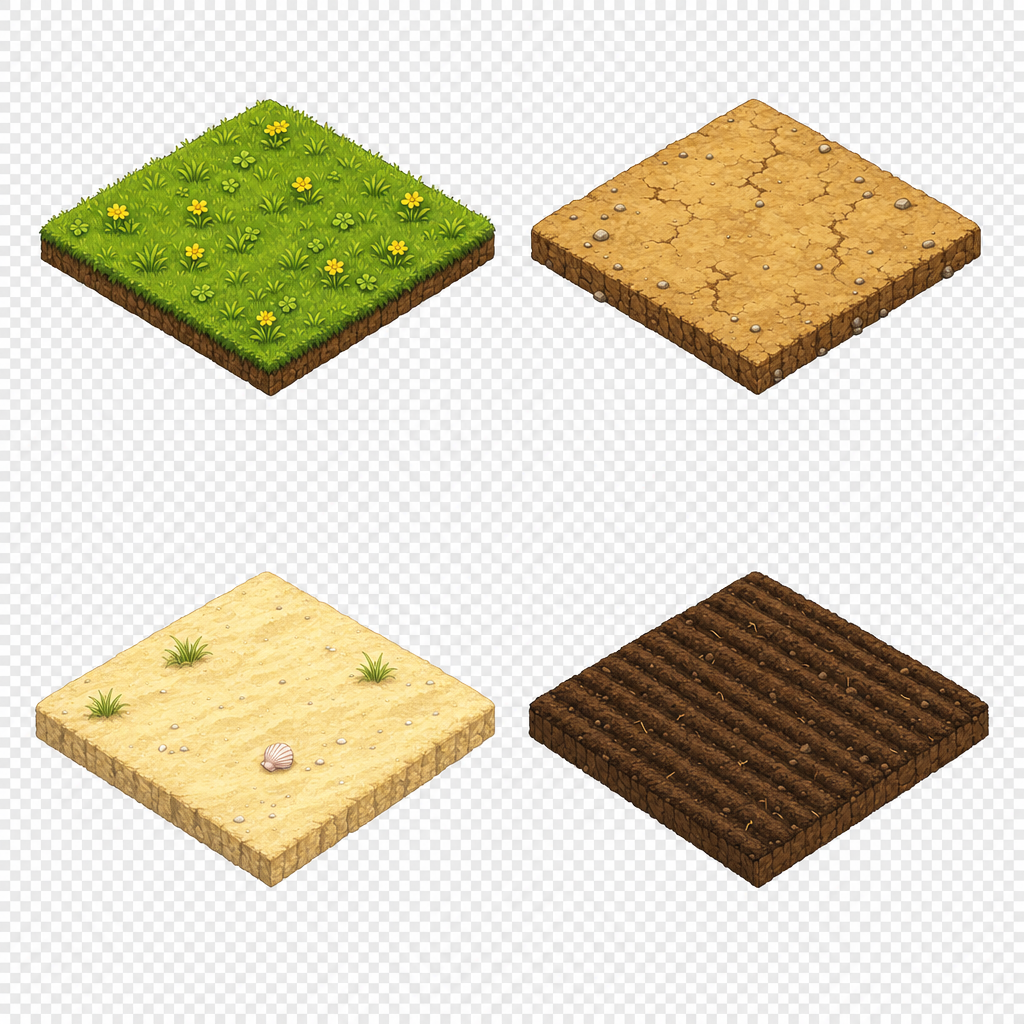
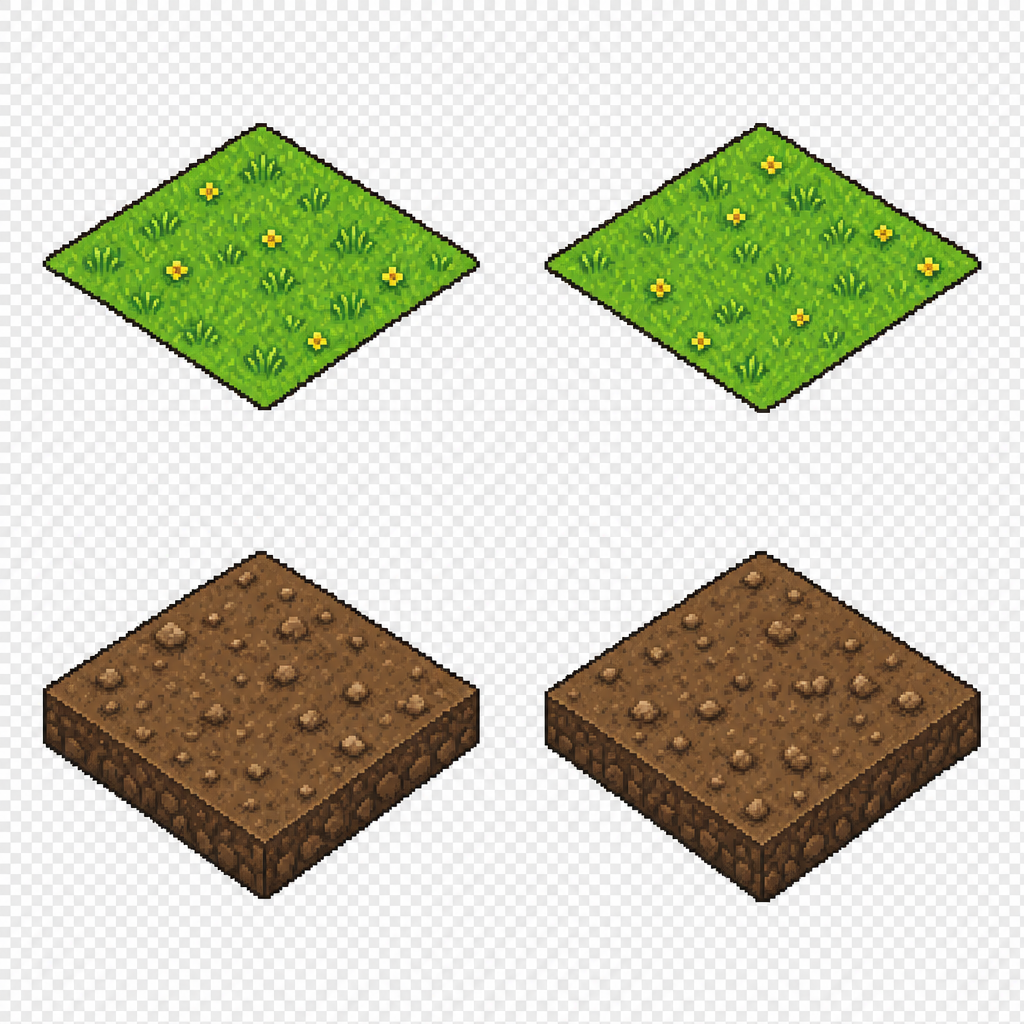
Pixel-art tiles: flat grass + chunky 3D dirt with two variants each

Changed region(s): [[0.0312, 0.5312, 0.9688, 0.875], [0.0312, 0.0938, 0.9688, 0.4062]]

diff --git a/src/game/world/tiles.ts b/src/game/world/tiles.ts
@@ -1,11 +1,14 @@
-export const TILE_FRAMES = ["grass", "dirt", "sand", "farm"] as const;
+export const TILE_FRAMES = ["grass", "grass2", "dirt", "dirt2"] as const;
 export type TileFrame = (typeof TILE_FRAMES)[number];
 export const TILE_ATLAS_KEY = "tiles";
 
 export function tileAt(ix: number, iy: number): TileFrame {
   const patchX = Math.floor(ix / 2);
   const patchY = Math.floor(iy / 2);
-  const h = ((patchX * 73856093) ^ (patchY * 19349663)) >>> 0;
-  if (h % 100 < 22) return "dirt";
-  return "grass";
+  const patchHash = ((patchX * 73856093) ^ (patchY * 19349663)) >>> 0;
+  const isDirt = patchHash % 100 < 22;
+  const variantHash = ((ix * 83492791) ^ (iy * 50331653)) >>> 0;
+  const variant = variantHash & 1;
+  if (isDirt) return variant ? "dirt2" : "dirt";
+  return variant ? "grass2" : "grass";
 }